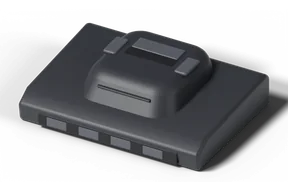
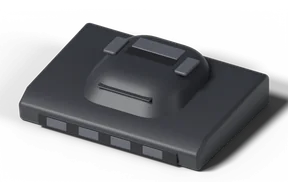
Consoles : Nintendo 64, PS5 et Xbox retouchées
Dôme de la Nintendo 64 plus bas et arrondi, ailes de la PS5 qui s'évasent vers le haut,
bijou de la Xbox plus petit et bombé dans son cadre. Le script de conversion ne prend plus
que les rendus des consoles (nom en capitales), pas les planches de contrôle.

diff --git a/scripts/consoles/render.py b/scripts/consoles/render.py
@@ -345,7 +345,7 @@ def n64():
     body, dark, mid = plastic('#2c2d32', 0.5), plastic('#17171a', 0.6), plastic('#4a4b52', 0.5)
     W, D = 26.0, 19.0
     profile('ailes', [(0.4, 0), (D, 0), (D, 4.2), (D - 1.0, 4.9), (2.4, 4.0), (0, 2.6)], 0, W, body, bevel=0.5)
-    prism('dome', rr(5.5, 2.0, 15.0, 16.4, 3.5), 2.6, 7.3, body, bevel=1.2, top_pts=rr(7.2, 5.5, 11.6, 11.6, 2.6))
+    prism('dome', rr(5.0, 1.5, 16.0, 17.0, 4.5), 2.6, 7.3, body, bevel=1.8, segments=6, top_pts=rr(7.6, 6.0, 10.8, 10.8, 3.4))
     box('fente', 9.6, 10.6, 7.25, 16.4, 12.2, 7.35, dark)
     box('volet', 9.7, 12.2, 7.2, 16.3, 14.6, 7.45, mid, bevel=0.15)
     for x in (7.0, 17.2):
@@ -512,8 +512,12 @@ def ps5():
     D, H = 26.0, 39.0
     wing = [(2.2, 1.0), (D - 2.2, 1.0), (D - 0.5, 4.5), (D + 0.6, 30.0), (D - 1.5, H), (1.5, H), (-0.6, 30.0), (0.5, 4.5)]
     profile('cœur', [(1.0, 1.0), (D - 1.0, 1.0), (D - 1.0, H - 1.6), (1.0, H - 1.6)], 2.0, 8.4, core, bevel=0.4)
-    profile('aile-gauche', wing, 0.0, 2.0, white, bevel=0.5)
-    profile('aile-droite', wing, 8.4, 10.4, white, bevel=0.5)
+    # Les ailes s'évasent vers le haut (cisaillement : l'écart grandit avec la hauteur)
+    left = profile('aile-gauche', wing, 0.0, 2.0, white, bevel=0.5)
+    right = profile('aile-droite', wing, 8.4, 10.4, white, bevel=0.5)
+    flare = 0.07
+    left.matrix_world = Matrix(((1, 0, -flare, 2.0 * 0), (0, 1, 0, 0), (0, 0, 1, 0), (0, 0, 0, 1)))
+    right.matrix_world = Matrix(((1, 0, flare, 0), (0, 1, 0, 0), (0, 0, 1, 0), (0, 0, 0, 1)))
     for x in (1.95, 8.35):
         profile('lumiere', [(2.0, 2.0), (2.15, 2.0), (2.15, H - 2.4), (2.0, H - 2.4)], x, x + 0.1, led('#4a86ff', 5))
     cyl('socle', 5.2, D / 2, 0, 1.0, 6.5, dark, bevel=0.2)
@@ -712,7 +716,8 @@ def xbox():
     W, D = 32.4, 26.0
     prism('corps', rr(0, 0, W, D, 2.5), 0, 8.6, black, bevel=0.8, top_pts=rr(1.5, 1.8, W - 3.0, D - 3.6, 2.0))
     prism('bosse', rr(9.0, 6.0, 14.4, 14.0, 6.0), 8.4, 10.0, black, bevel=1.0)
-    cyl('bijou', W / 2, 13.0, 9.8, 10.5, 4.4, material('#3fb33a', 0.15, transmission=0.6, coat=0.8, emit='#2a8f26', strength=0.6), bevel=0.5)
+    cyl('bijou', W / 2, 13.0, 9.8, 10.35, 2.6, material('#2e8f2a', 0.12, transmission=0.5, coat=1.0, emit='#1f6e1c', strength=0.4), bevel=0.45)
+    cyl('bijou-cadre', W / 2, 13.0, 9.8, 10.05, 3.3, plastic('#0c0c0e', 0.4), bevel=0.25)
     box('tiroir', 10.0, -0.05, 4.2, 22.4, 0.3, 5.2, dark, bevel=0.1)
     for x, c in ((24.5, '#3fd13a'), (27.0, '#8a8a90')):
         cyl('bouton', x, 1.4, 6.6, 7.0, 0.8, plastic('#2b2b30'), bevel=0.15) if False else box('bouton', x, -0.12, 4.3, x + 1.8, 0.2, 5.1, plastic('#2b2b30'), bevel=0.15)
